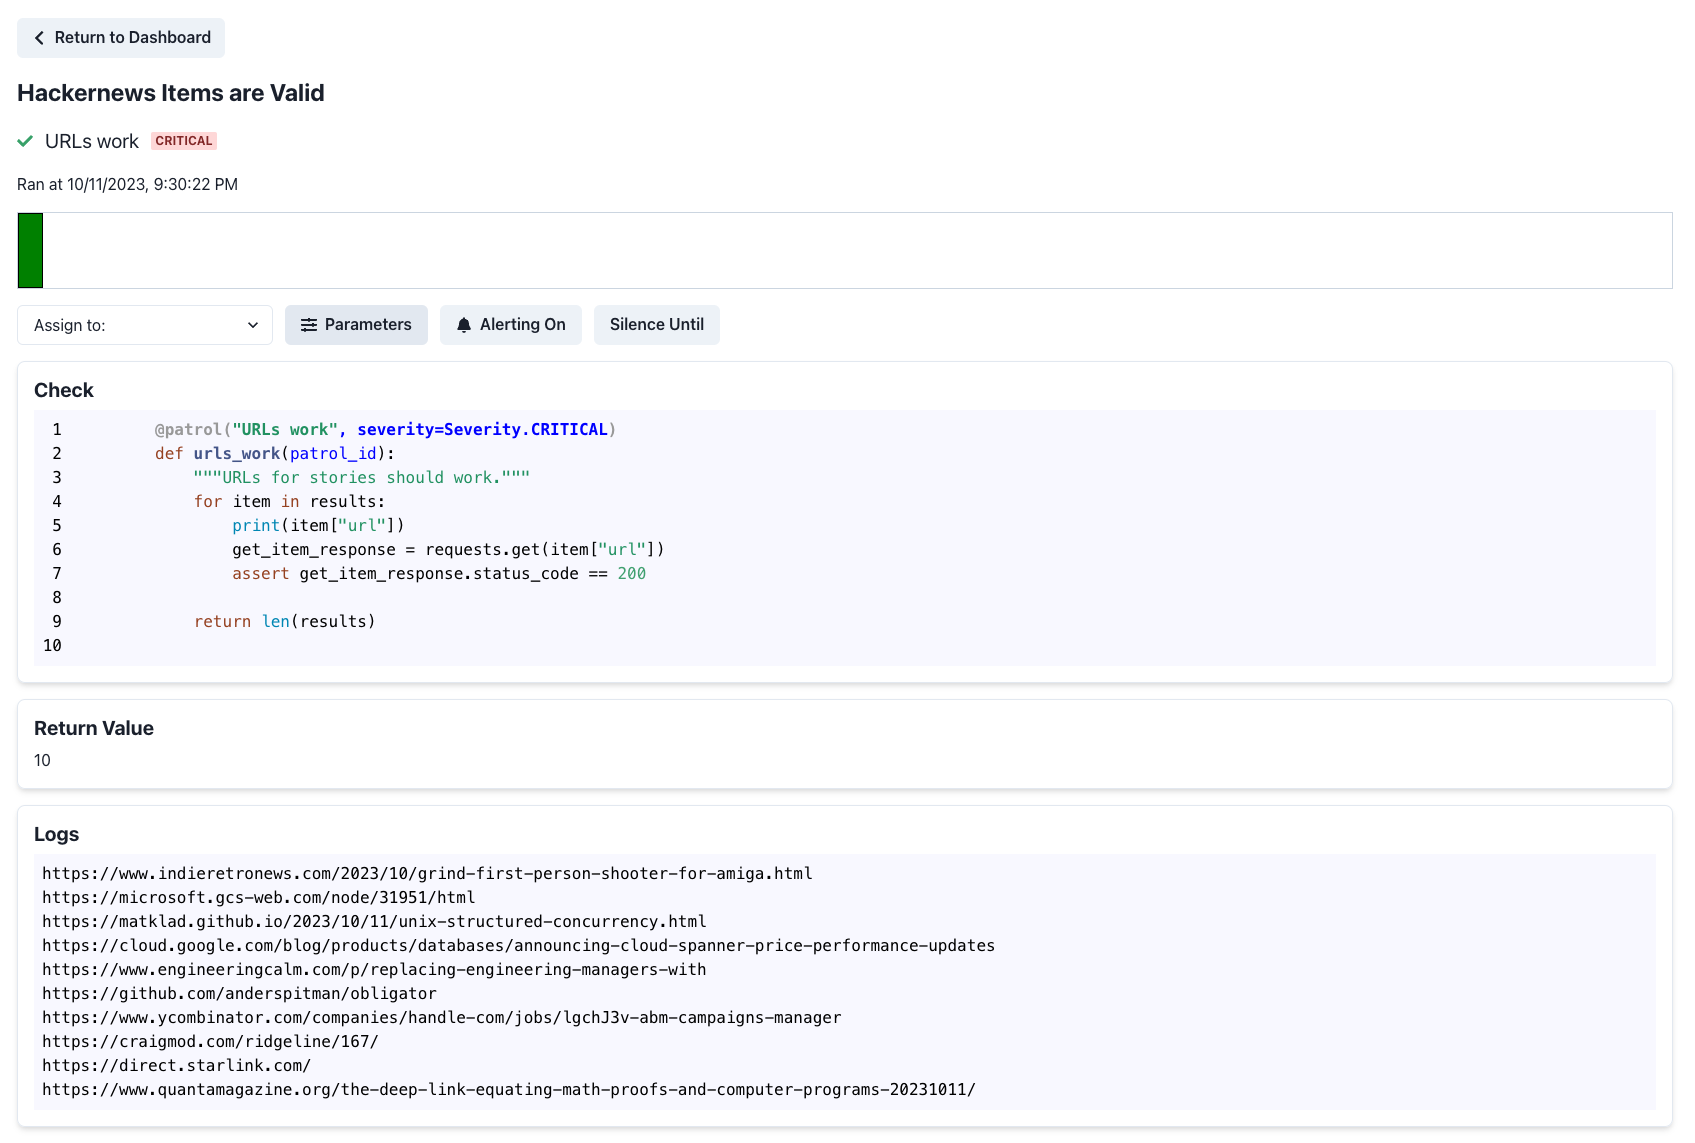
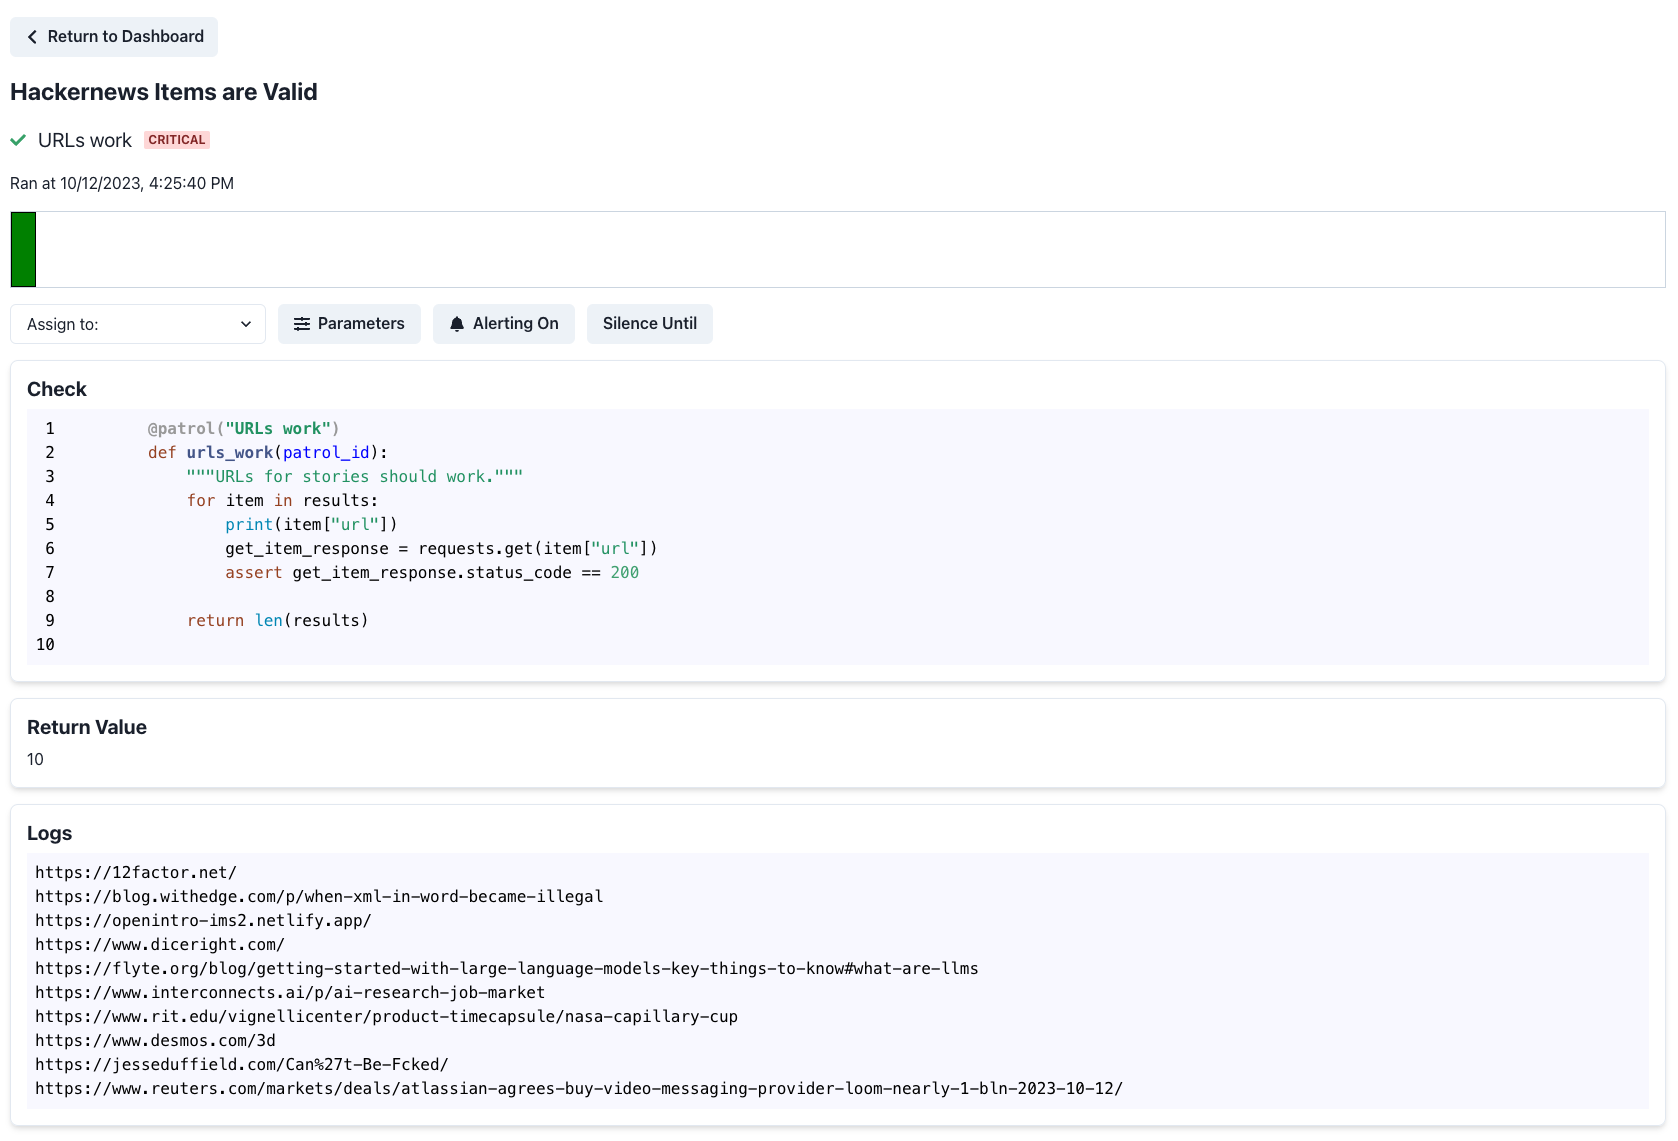
update  readme

diff --git a/panda_patrol/patrols/patrol.py b/panda_patrol/patrols/patrol.py
@@ -105,7 +105,7 @@ def patrol_group(
             "severity": context["severity"],
             "status": status,
             "logs": patrol_logs.getvalue().strip(),
-            "return_value": return_value,
+            "return_value": f"{return_value}",
             "start_time": start,
             "end_time": end,
             "exception": exception,

diff --git a/README.md b/README.md
@@ -43,6 +43,8 @@ See [`.env.example`](https://github.com/aivanzhang/panda_patrol/blob/main/.env.e
 python -m panda_patrol
 ```
 ### 4) Wrap your existing data tests
+Spin up a new data test dashboard by wrapping your existing data tests with `patrol_group` and `@patrol`. The following example shows how to wrap a data test in a dagster pipeline. However, you can use whatever Python-based data pipeline.
+
 Before (`hello-dagster.py` from https://docs.dagster.io/getting-started/hello-dagster):
 ```python
 def hackernews_top_stories(context: AssetExecutionContext):
@@ -67,7 +69,7 @@ def hackernews_top_stories(context: AssetExecutionContext):
 ```
 After:
 ```diff
-+ from panda_patrol.patrols import patrol_group, Severity
++ from panda_patrol.patrols import patrol_group
 ...
 def hackernews_top_stories(context: AssetExecutionContext):
     """Get items based on story ids from the HackerNews items endpoint."""
@@ -84,7 +86,7 @@ def hackernews_top_stories(context: AssetExecutionContext):
 
     # DATA TEST: Make sure that the item's URL is a valid URL
 +   with patrol_group("Hackernews Items are Valid") as patrol:
-+	@patrol("URLs work", severity=Severity.CRITICAL)
++	@patrol("URLs work")
 +	def urls_work(patrol_id):
 		"""URLs for stories should work."""
 		for item in results:
@@ -96,7 +98,7 @@ def hackernews_top_stories(context: AssetExecutionContext):
     ...
 ```
 ### 5) Run your data pipeline
-Run your data pipelines as you normally would. Here we use dagster to run the data tests. However, you can use whatever Python-based data pipeline.
+Start your data pipelines as you normally would. Then run the step in the pipeline with the test. Here we use dagster to run the data tests. However, you can use whatever Python-based data pipeline.
 ```bash
 dagster dev -f hello-dagster.py
 ```
@@ -104,9 +106,11 @@ dagster dev -f hello-dagster.py
 ### 6) View the results
 Go to `PANDA_PATROL_URL` to view the results of your data tests. You should see something like this:
 
-**Main page**
+**Dashboard**
+
 ![Panda Patrol Dashboard](dashboard.png)
-**Results page of a specific data test run**
+
+**Run Details**
 ![Log](run.png)
 
 :tada: Congrats! :tada: You have created your first data test dashboard! See the [documentation](https://github.com/aivanzhang/panda_patrol/wiki) for more information on other features like adjustable parameters, alerting, and silencing.
